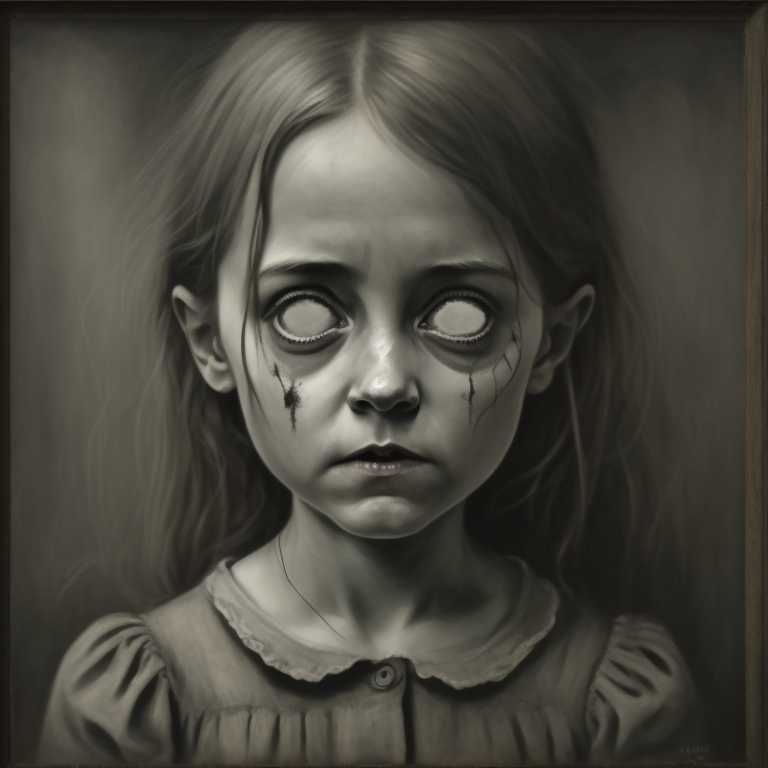
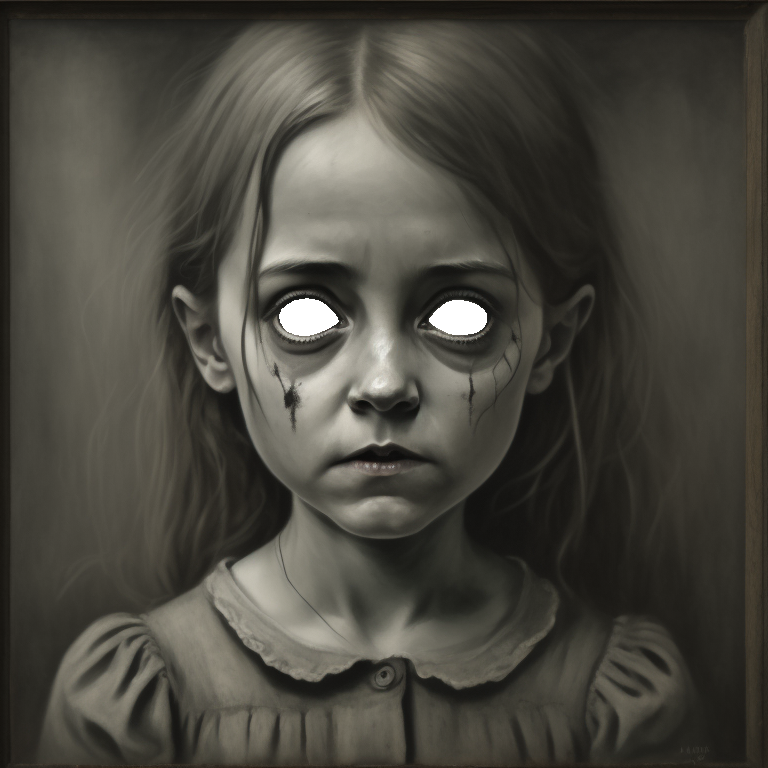
added a couple additional image files which will help me to get the effect im looking for with eye movmeents changes some of the names around to match the new images more accurately changed the height of everything to 640 instead of 480 to make it all square (im unsure how this will effect the detec

Changed region(s): [[0.5625, 0.375, 0.6562, 0.4375], [0.3438, 0.375, 0.4375, 0.4375]]

diff --git a/src/App.js b/src/App.js
@@ -6,8 +6,9 @@ import * as cocossd from "@tensorflow-models/coco-ssd";
 //import webcam
 import Webcam from "react-webcam";
 
-const girl = require("./images/creepy_girl_no_eyes.png");
 const eyes = require("./images/creepy_girl_eyes.png");
+const pupils = require("./images/creepy_girl_pupils.png");
+const girl = require("./images/creepy_girl_no_eyes.png");
 
 function App() {
   const webcamRef = useRef(null);
@@ -74,25 +75,9 @@ function App() {
             textAlign: "center",
             zindex: 9,
             width: 640,
-            height: 480,
+            height: 640,
           }}
         />
-        <img
-          src={girl}
-          alt="creepy painting of girl"
-          style={{
-            position: "absolute",
-            marginLeft: "auto",
-            marginRight: "auto",
-            left: 0,
-            right: 0,
-            top: "10%",
-            textAlign: "center",
-            zindex: 20,
-            width: 640,
-            height: 480,
-          }}
-        ></img>
         <img
           src={eyes}
           alt="creepy painting of girl"
@@ -104,9 +89,41 @@ function App() {
             right: 0,
             top: "10%",
             textAlign: "center",
+            zindex: 20,
+            width: 640,
+            height: 640,
+          }}
+        ></img>
+        <img
+          src={pupils}
+          alt="creepy painting of girl"
+          style={{
+            position: "absolute",
+            marginLeft: "auto",
+            marginRight: "auto",
+            left: 0,
+            right: 0,
+            top: "10%",
+            textAlign: "center",
             zindex: 21,
             width: 640,
-            height: 480,
+            height: 640,
+          }}
+        ></img>
+        <img
+          src={girl}
+          alt="creepy painting of girl"
+          style={{
+            position: "absolute",
+            marginLeft: "auto",
+            marginRight: "auto",
+            left: 0,
+            right: 0,
+            top: "10%",
+            textAlign: "center",
+            zindex: 22,
+            width: 640,
+            height: 640,
           }}
         ></img>
 
@@ -122,7 +139,7 @@ function App() {
             textAlign: "center",
             zindex: 8,
             width: 640,
-            height: 480,
+            height: 640,
           }}
         />
       </div>
@@ -157,5 +174,5 @@ change the image to 3 layers
 
 adjust image sizes and dont render webcam output in browser
 
-make the location of the eyes based on some state which is updated with information from the webcam
+make the location of the pupils based on some state which is updated with information from the webcam
 */
